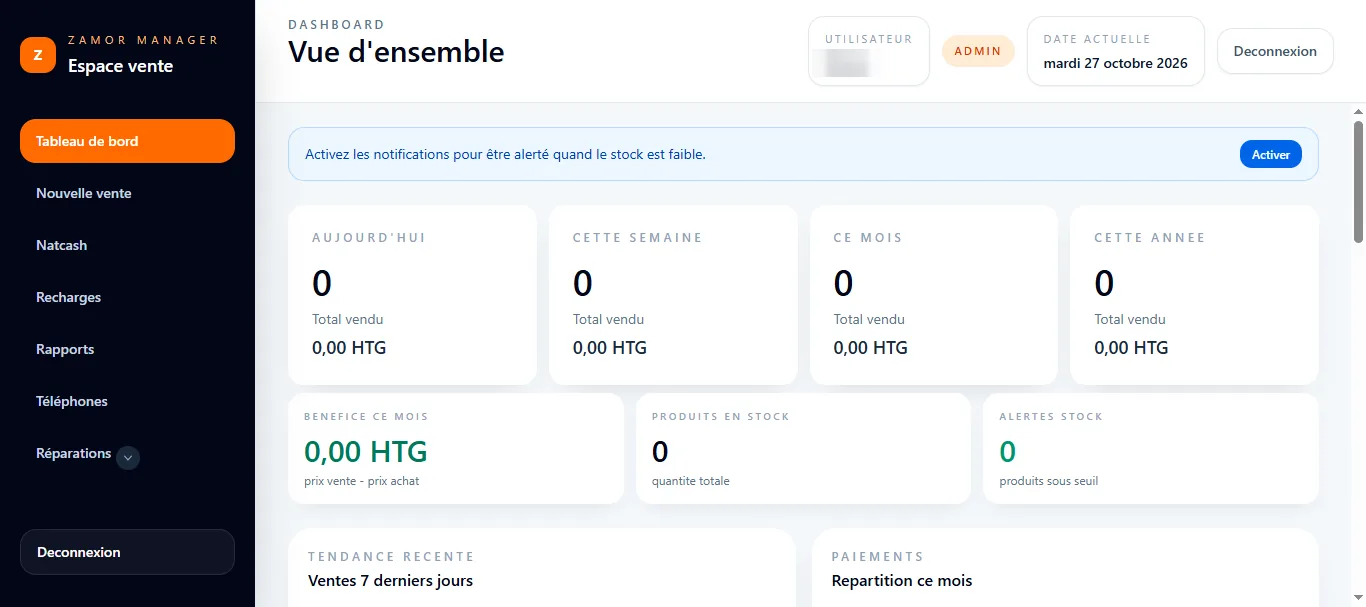
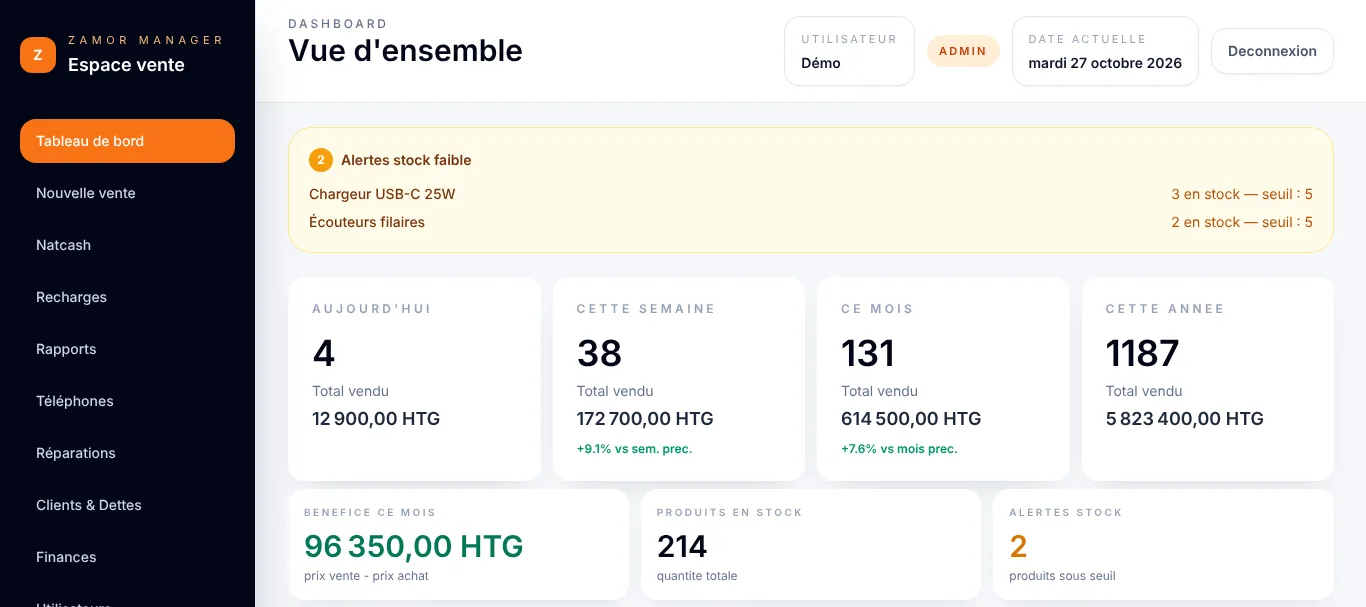
feat: contribution par projet et capture Zamor avec données de démo
- Ligne de contribution sur chaque projet (seul, ou à deux pour Blex Academy)
- Capture de Zamor Manager rendue depuis la vraie interface avec des données de démonstration

Claude-Session: https://claude.ai/code/session_01SUSTTXn8LbnuuSK7b2NaeD

diff --git a/src/content.config.ts b/src/content.config.ts
@@ -21,6 +21,7 @@ const projects = defineCollection({
     capabilities: z.array(z.string()).max(3),
     technologies: z.array(z.string()).optional(),
     liveUrl: z.url().optional(),
+    contribution: z.string().trim().min(1).optional(),
     coverImage: z.string().optional(),
     coverImageAlt: z.string().optional(),
     featured: z.boolean().default(false),

diff --git a/src/content/projects/zamor-manager.md b/src/content/projects/zamor-manager.md
@@ -19,7 +19,8 @@ technologies:
   - Node.js, Express, Sequelize
   - MySQL
 coverImage: /projects/zamor-manager.webp
-coverImageAlt: "Tableau de bord de Zamor Manager : ventes du jour, de la semaine, du mois et alertes de stock"
+coverImageAlt: "Tableau de bord de Zamor Manager : ventes, alertes de stock, services Natcash et recharges (données de démonstration)"
+contribution: Conçu et développé seul.
 featured: true
 statusLabel: Version 2 livrée
 confidentialityNote: Les données de la boutique ne sont pas montrées.

diff --git a/src/content/projects/unioncaisse-v2.md b/src/content/projects/unioncaisse-v2.md
@@ -21,6 +21,7 @@ technologies:
 liveUrl: https://unioncaisse.com
 coverImage: /projects/unioncaisse.webp
 coverImageAlt: "Tableau de bord administrateur d’UnionCaisse, montants et effectifs floutés"
+contribution: Conçu et développé seul.
 featured: true
 statusLabel: En production
 confidentialityNote: Les données des clients et les montants ne sont jamais montrés.

diff --git a/src/content/projects/invincibo-saas.md b/src/content/projects/invincibo-saas.md
@@ -20,6 +20,7 @@ technologies:
   - PostgreSQL
 coverImage: /projects/invincibo-saas.webp
 coverImageAlt: "Portail client d’un technicien sur Invincibo SaaS : choix d’un service UnlockTool et formulaire de commande (données de démonstration)"
+contribution: Conçu et développé seul.
 featured: true
 statusLabel: En pilote avec des techniciens
 ---

diff --git a/src/content/projects/crm-invincibo-gsm.md b/src/content/projects/crm-invincibo-gsm.md
@@ -16,6 +16,7 @@ capabilities:
   - Accompagnements
 coverImage: /projects/crm-invincibo-gsm.webp
 coverImageAlt: "Tableau de bord du CRM : leads, clients, conversion et relances"
+contribution: Conçu et développé seul.
 featured: false
 statusLabel: Outil interne
 confidentialityNote: Les échanges et les données des contacts ne sont pas montrés.

diff --git a/src/content/projects/blex-academy.md b/src/content/projects/blex-academy.md
@@ -16,6 +16,7 @@ capabilities:
   - Suivi de la progression
 coverImage: /projects/blex-academy.webp
 coverImageAlt: "Page d’accueil du site de Blex Academy"
+contribution: Développé à deux.
 featured: false
 statusLabel: Plateforme de formation
 confidentialityNote: Les données des étudiants ne sont pas montrées.
